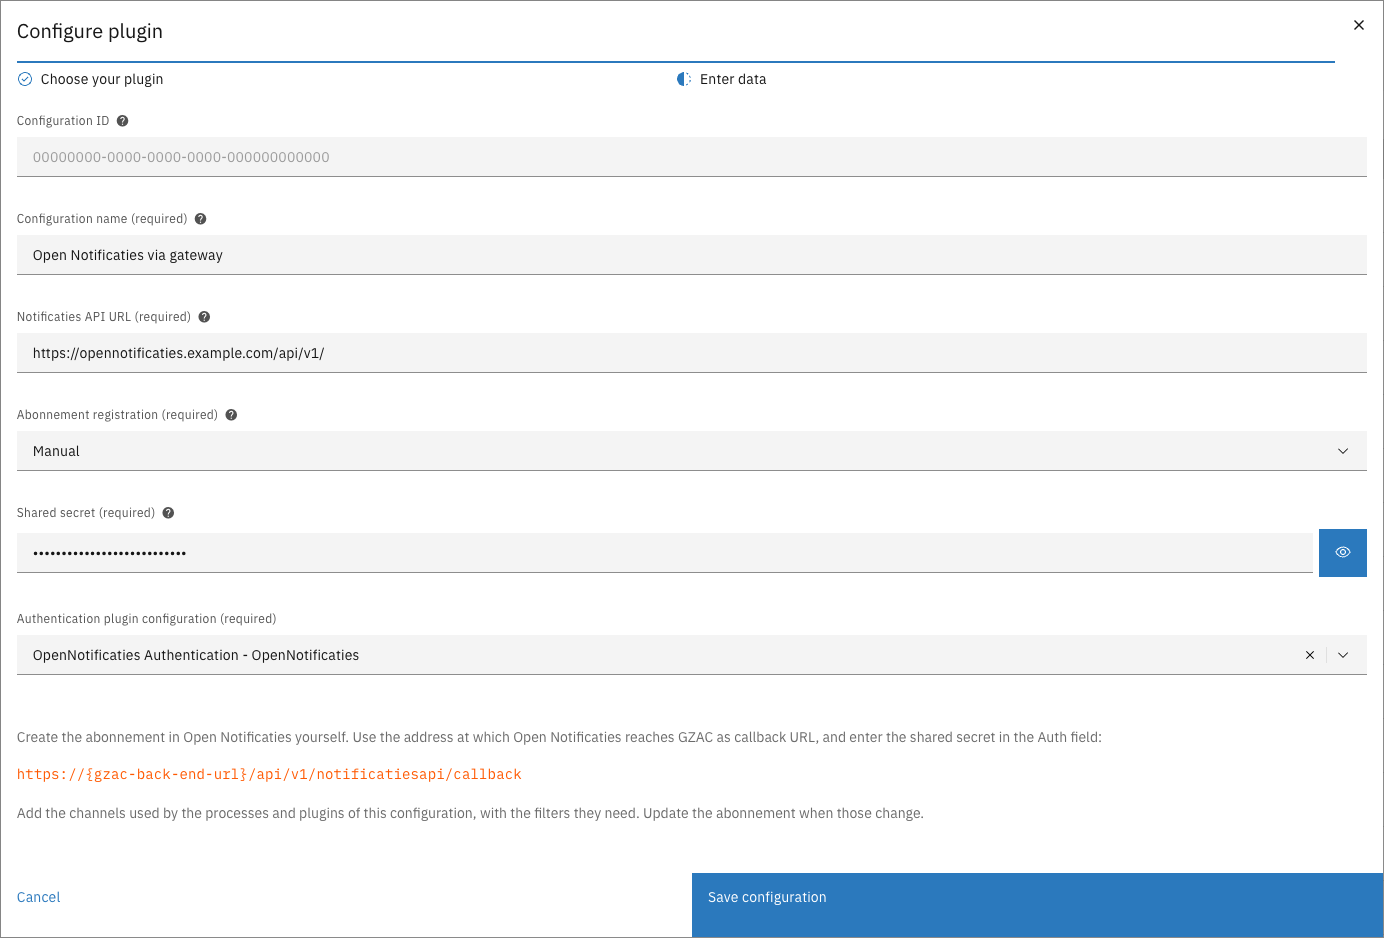
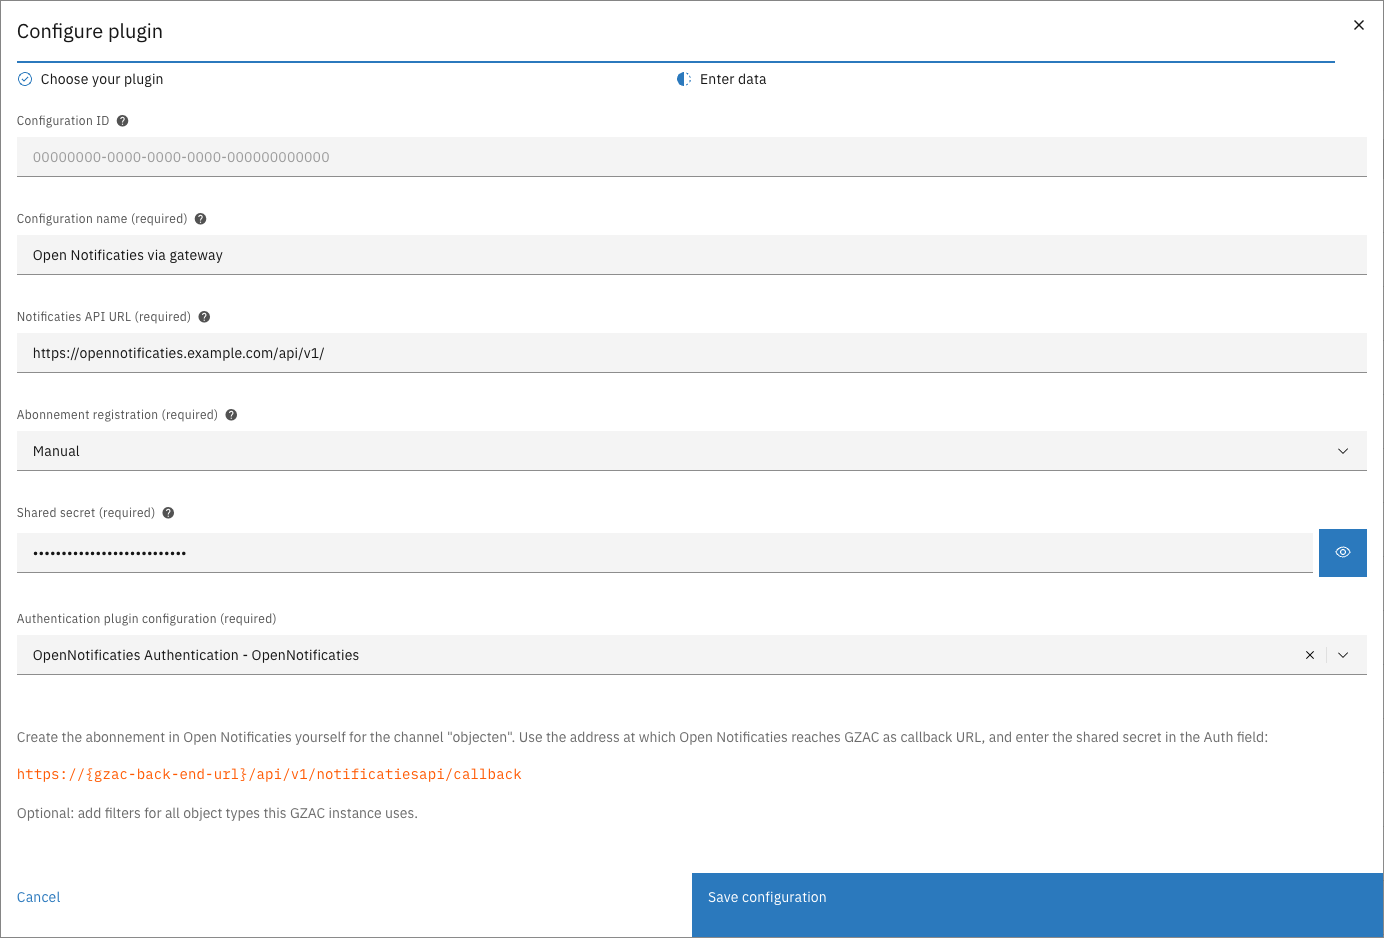
Point manual abonnement help in Notificaties API configuration to the objecten channel
The help text now asks to create the abonnement for the channel "objecten" and mentions
optional filters for the object types the instance uses. Updates the documentation and
retakes its screenshot to match.

Changed region(s): [[0.2486, 0.7729, 0.901, 0.8038], [0.0311, 0.8657, 0.3107, 0.8966], [0.466, 0.8657, 0.4971, 0.8966]]

diff --git a/frontend/projects/valtimo/plugin/src/lib/plugins/notificaties-api/notificaties-api-plugin.specification.ts b/frontend/projects/valtimo/plugin/src/lib/plugins/notificaties-api/notificaties-api-plugin.specification.ts
@@ -52,9 +52,9 @@ const notificatiesApiPluginSpecification: PluginSpecification = {
       sharedSecretTooltip:
         'Vul hetzelfde geheim in bij het veld Auth van het abonnement in Open Notificaties. GZAC accepteert alleen notificaties met dit geheim. Gebruik een gewone waarde, zonder "Bearer ".',
       manualAbonnementDescription:
-        'Maak het abonnement zelf aan in Open Notificaties. Gebruik als callback URL het adres waarop Open Notificaties GZAC bereikt, en vul het gedeelde geheim in bij het veld Auth:',
-      manualAbonnementKanalen:
-        'Voeg de kanalen toe die de processen en plug-ins van deze configuratie gebruiken, met de filters die zij nodig hebben. Werk het abonnement bij wanneer die veranderen.',
+        'Maak het abonnement zelf aan in Open Notificaties voor het kanaal "objecten". Gebruik als callback URL het adres waarop Open Notificaties GZAC bereikt, en vul het gedeelde geheim in bij het veld Auth:',
+      manualAbonnementFilters:
+        'Optioneel: voeg filters toe voor alle objecttypes waar deze GZAC-instantie gebruik van maakt.',
       'publish-notificatie': 'Publiceer een notificatie',
       kanaal: 'Kanaal',
       kanaalTooltip: 'Het kanaal waarop de notificatie gepubliceerd wordt (max 50 tekens).',
@@ -106,9 +106,9 @@ const notificatiesApiPluginSpecification: PluginSpecification = {
       sharedSecretTooltip:
         'Enter the same secret in the Auth field of the abonnement in Open Notificaties. GZAC only accepts notifications that carry this secret. Use a plain value, without "Bearer ".',
       manualAbonnementDescription:
-        'Create the abonnement in Open Notificaties yourself. Use the address at which Open Notificaties reaches GZAC as callback URL, and enter the shared secret in the Auth field:',
-      manualAbonnementKanalen:
-        'Add the channels used by the processes and plugins of this configuration, with the filters they need. Update the abonnement when those change.',
+        'Create the abonnement in Open Notificaties yourself for the channel "objecten". Use the address at which Open Notificaties reaches GZAC as callback URL, and enter the shared secret in the Auth field:',
+      manualAbonnementFilters:
+        'Optional: add filters for all object types this GZAC instance uses.',
       'publish-notificatie': 'Publish a notification',
       kanaal: 'Channel',
       kanaalTooltip: 'The channel on which the notification is published (max 50 characters).',

diff --git a/frontend/projects/valtimo/plugin/src/lib/plugins/notificaties-api/components/notificaties-api-configuration/notificaties-api-configuration.component.spec.ts b/frontend/projects/valtimo/plugin/src/lib/plugins/notificaties-api/components/notificaties-api-configuration/notificaties-api-configuration.component.spec.ts
@@ -260,6 +260,6 @@ describe('NotificatiesApiConfigurationComponent template', () => {
       'https://{gzac-back-end-url}/api/v1/notificatiesapi/callback'
     );
     expect(fixture.nativeElement.textContent).toContain('manualAbonnementDescription');
-    expect(fixture.nativeElement.textContent).toContain('manualAbonnementKanalen');
+    expect(fixture.nativeElement.textContent).toContain('manualAbonnementFilters');
   });
 });

diff --git a/frontend/projects/valtimo/plugin/src/lib/plugins/notificaties-api/components/notificaties-api-configuration/notificaties-api-configuration.component.html b/frontend/projects/valtimo/plugin/src/lib/plugins/notificaties-api/components/notificaties-api-configuration/notificaties-api-configuration.component.html
@@ -128,6 +128,6 @@
   >
 
   <v-paragraph>
-    {{ 'manualAbonnementKanalen' | pluginTranslate: pluginId | async }}
+    {{ 'manualAbonnementFilters' | pluginTranslate: pluginId | async }}
   </v-paragraph>
 </div>

diff --git a/documentation/configuration-guides/plugins/notificaties-api.md b/documentation/configuration-guides/plugins/notificaties-api.md
@@ -65,9 +65,8 @@ Open a new or existing Notificaties API configuration
 Select **Manual** in **Abonnement registration**
 
 The **Callback URL** field disappears, because with **Manual** the callback URL is only entered
-in Open Notificaties. Instead, a help text appears below the properties. It shows the callback URL
-to use, and reminds you to add the channels and filters to the abonnement. You do not have to save
-first to see it.
+in Open Notificaties. Instead, a help text appears below the properties. It shows the channel and
+callback URL to use. You do not have to save first to see it.
 {% endstep %}
 {% step %}
 Enter a **Shared secret**
@@ -87,7 +86,7 @@ In the admin of Open Notificaties:
 
 {% stepper %}
 {% step %}
-Create an abonnement with the callback URL
+Create an abonnement for the channel (kanaal) **objecten** with the callback URL
 `https://{gzac-back-end-url}/api/v1/notificatiesapi/callback`. Replace `{gzac-back-end-url}`
 with the address at which Open Notificaties reaches Valtimo, such as the address of the gateway.
 {% endstep %}
@@ -96,14 +95,10 @@ Enter the **Shared secret** in the **Auth** field of the abonnement. Leave the a
 on **API key**.
 {% endstep %}
 {% step %}
-Add the channels (kanalen) that the processes and plugins using this configuration listen to,
-such as **Verzoek** and **Portaaltaak**, each with the filters they need. Check that every channel
-exists and allows those filters; Open Notificaties refuses an abonnement with filters that its
-channel does not allow.
+Optional: add filters for all object types that this Valtimo instance uses. Open Notificaties
+refuses an abonnement with filters that its channel does not allow.
 {% endstep %}
 {% endstepper %}
-
-When such a process or plugin changes, update the abonnement to match.
 
 ### Good to know
 
